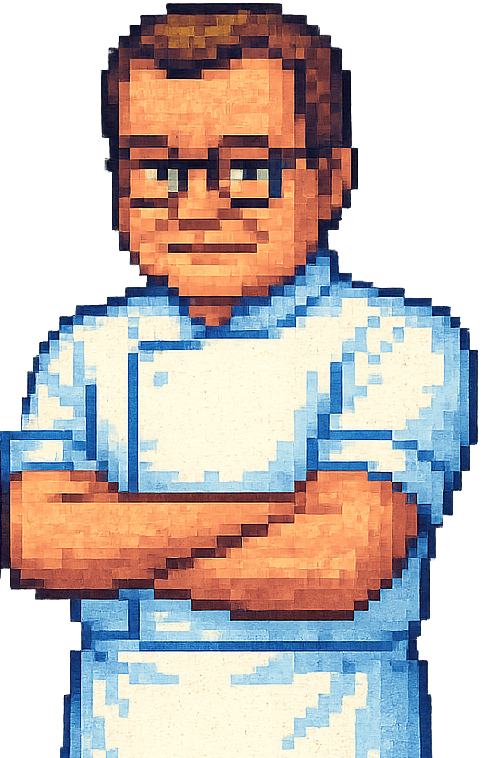
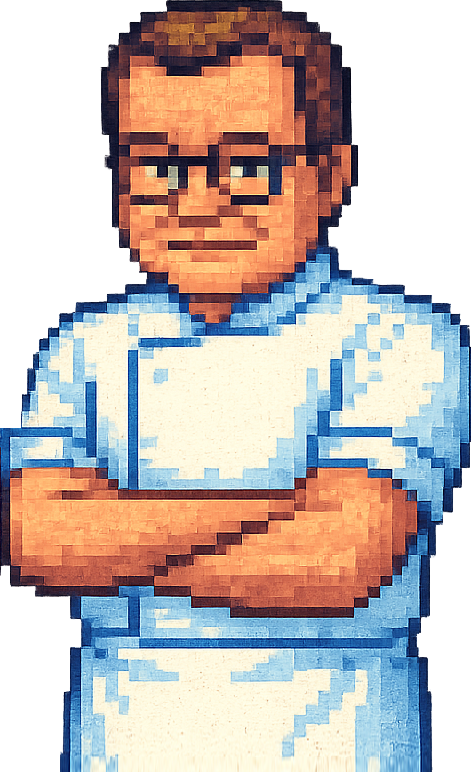
Add files via upload

diff --git a/index.html b/index.html
@@ -171,7 +171,7 @@
     }
 
     .player-choice img {
-      width: 22vw;          /* scales with viewport width */
+      width: 25vw;          /* scales with viewport width */
       max-width: 140px;     /* cap at old size */
       height: auto;         /* keep aspect ratio */
       image-rendering: pixelated;
@@ -388,6 +388,15 @@
       }
     }
 
+    function updateCrumbs(dt) {
+      for (let c of crumbs) {
+        c.x += c.vx * dt;
+        c.y += c.vy * dt;
+        c.life -= dt;
+      }
+      crumbs = crumbs.filter(c => c.life > 0);
+    }
+
     /* Music helpers */
     function startGameplayMusic() {
       gameplayMusic.volume = 0.8;
@@ -558,11 +567,25 @@
       gameoverSound.currentTime=0;
       gameoverSound.play();
 
-      messageTextEl.innerHTML = `Du lyckades fånga<br>${score} lussekatter`;
-      messageEl.style.display="flex";
+      // Explode all remaining buns/enemies into crumbs
+      for (let o of obstacles) {
+        const cx = o.x + o.width / 2;
+        const cy = o.y + o.height / 2;
+        const color = (o.type === "bun") ? "orange" : "brown";
+        spawnCrumbs(cx, cy, color);
+      }
+      obstacles = []; // remove them from screen
 
-      obstacles=[];
-      crumbs=[];
+      // Hide game over UI for a short while so crumbs can animate
+      messageEl.style.display = "none";
+
+      setTimeout(() => {
+        // Only show if we're still in gameover (not restarted already)
+        if (gameState === "gameover") {
+          messageTextEl.innerHTML = `Du lyckades fånga<br>${score} lussekatter`;
+          messageEl.style.display="flex";
+        }
+      }, 900); // delay so crumbs can crumble
     }
 
     /* Santa / Lucia fly-by */
@@ -692,14 +715,6 @@
         }
       }
       obstacles.length = writeIndex;
-
-      // Update crumbs
-      for (let c of crumbs) {
-        c.x += c.vx * dt;
-        c.y += c.vy * dt;
-        c.life -= dt;
-      }
-      crumbs = crumbs.filter(c => c.life > 0);
     }
 
     function draw(){
@@ -731,13 +746,17 @@
         ctx.fillRect(Math.round(c.x),Math.round(c.y),3,3);
       }
 
-      if(gameState==="playing"){
+      // Draw player in both playing and gameover
+      if(gameState==="playing" || gameState==="gameover"){
         ctx.drawImage(currentPlayerImg,
           player.x-player.width/2,
           player.y-player.height/2,
           player.width,player.height
         );
+      }
 
+      // Draw buns only while playing
+      if(gameState==="playing"){
         for(let o of obstacles){
           const img=(o.type==="enemy")?enemyImg:bunImg;
           ctx.drawImage(img,o.x,o.y,o.width,o.height);
@@ -751,6 +770,7 @@
 
       updateStars(dt);
       updateSanta(dt);
+      updateCrumbs(dt);   // <- crumbs now animate in all states
 
       if(gameState==="playing"){
         updateGame(dt);
